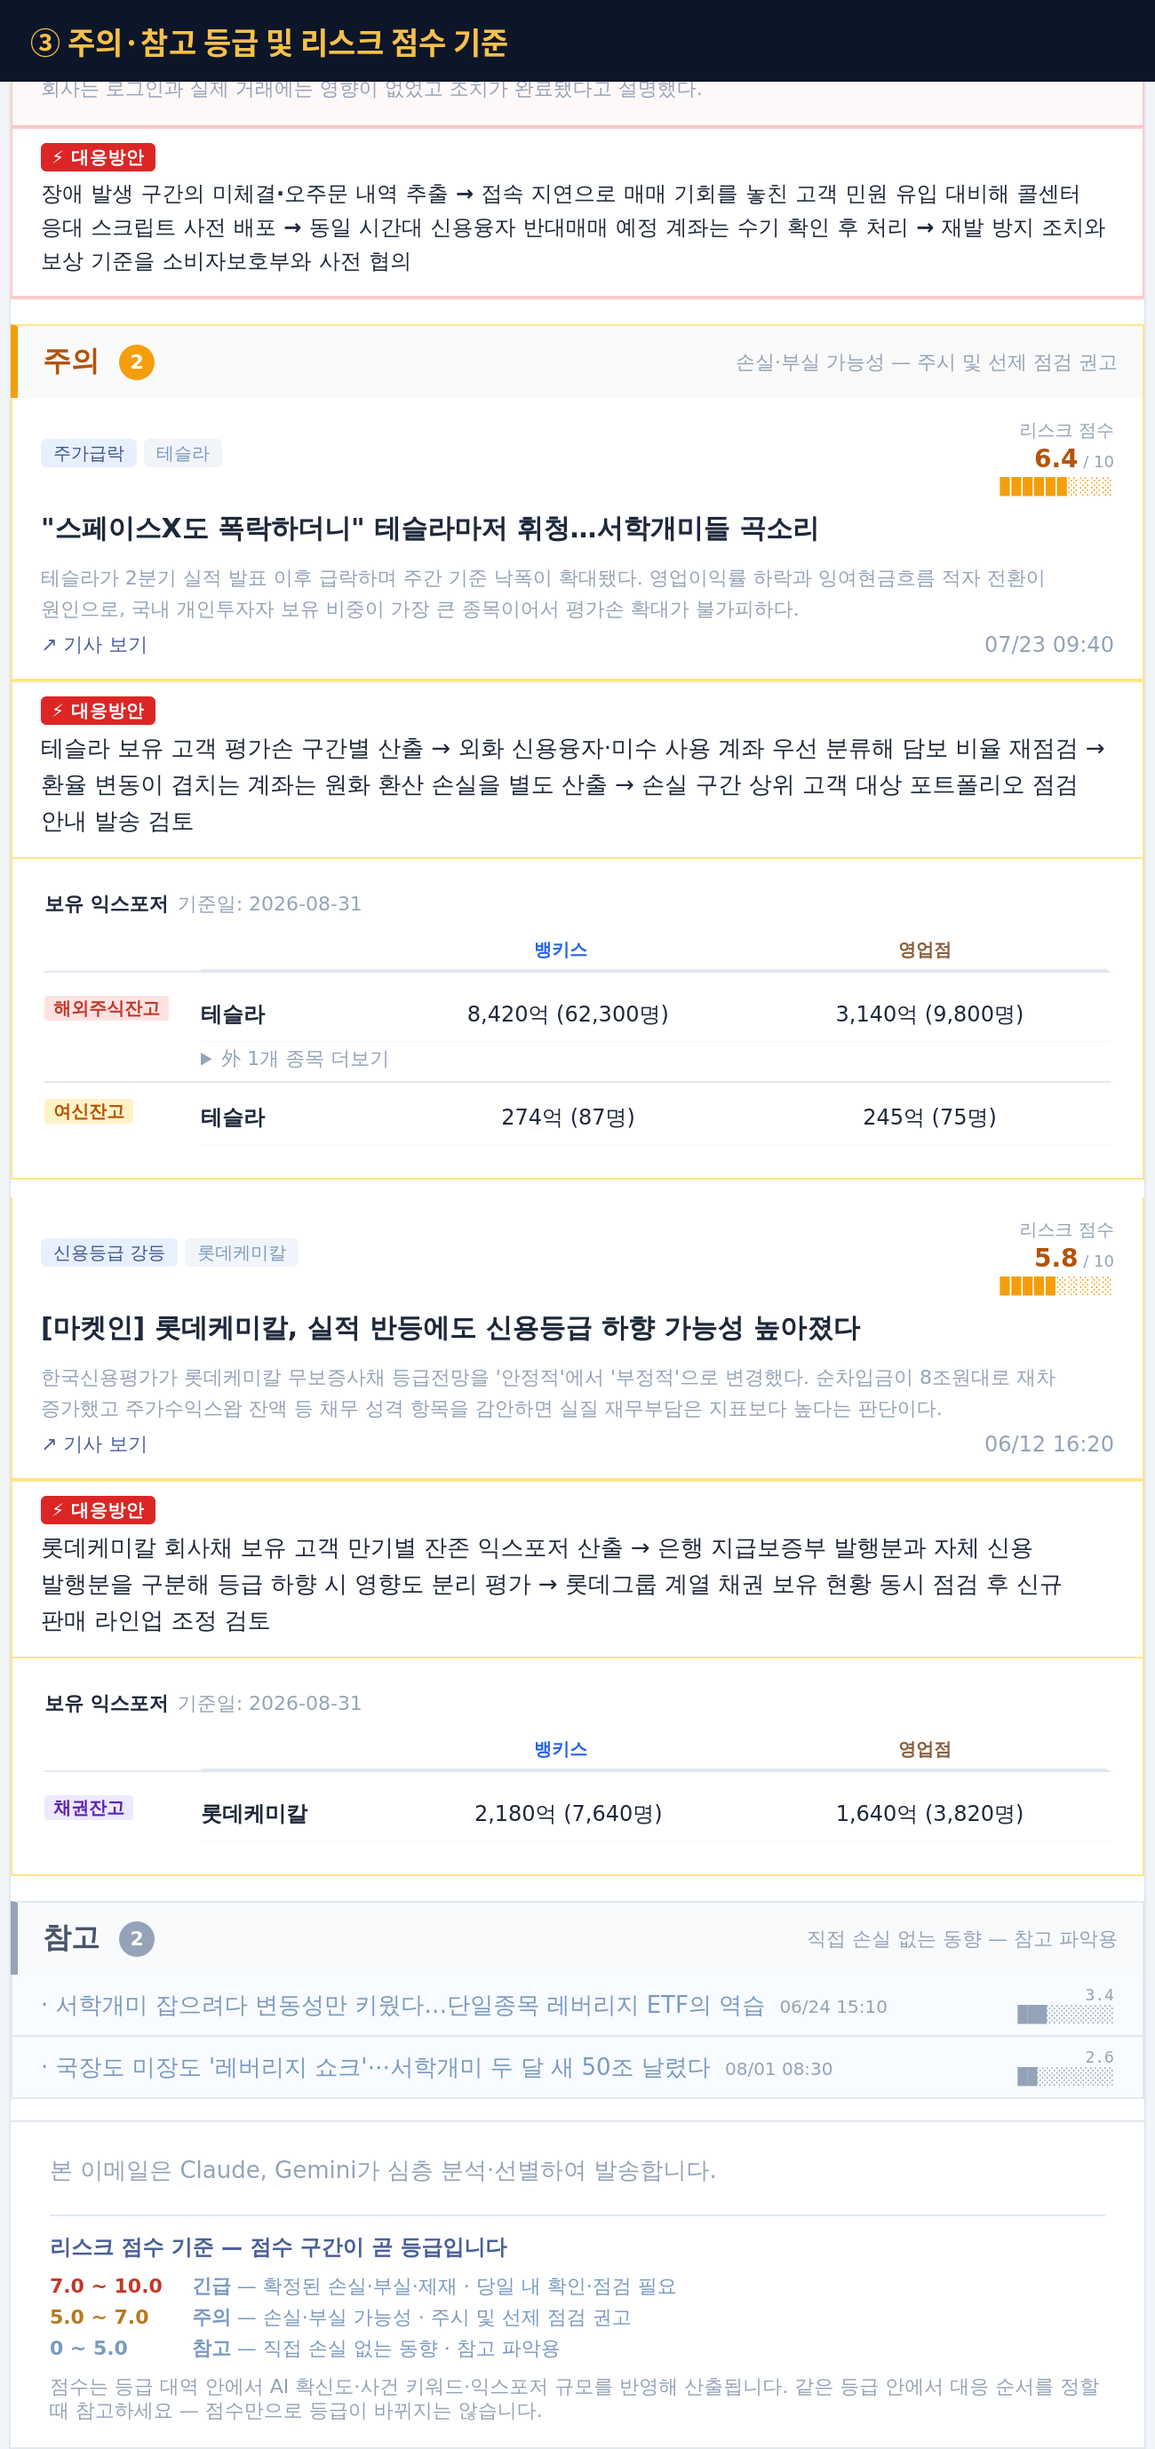
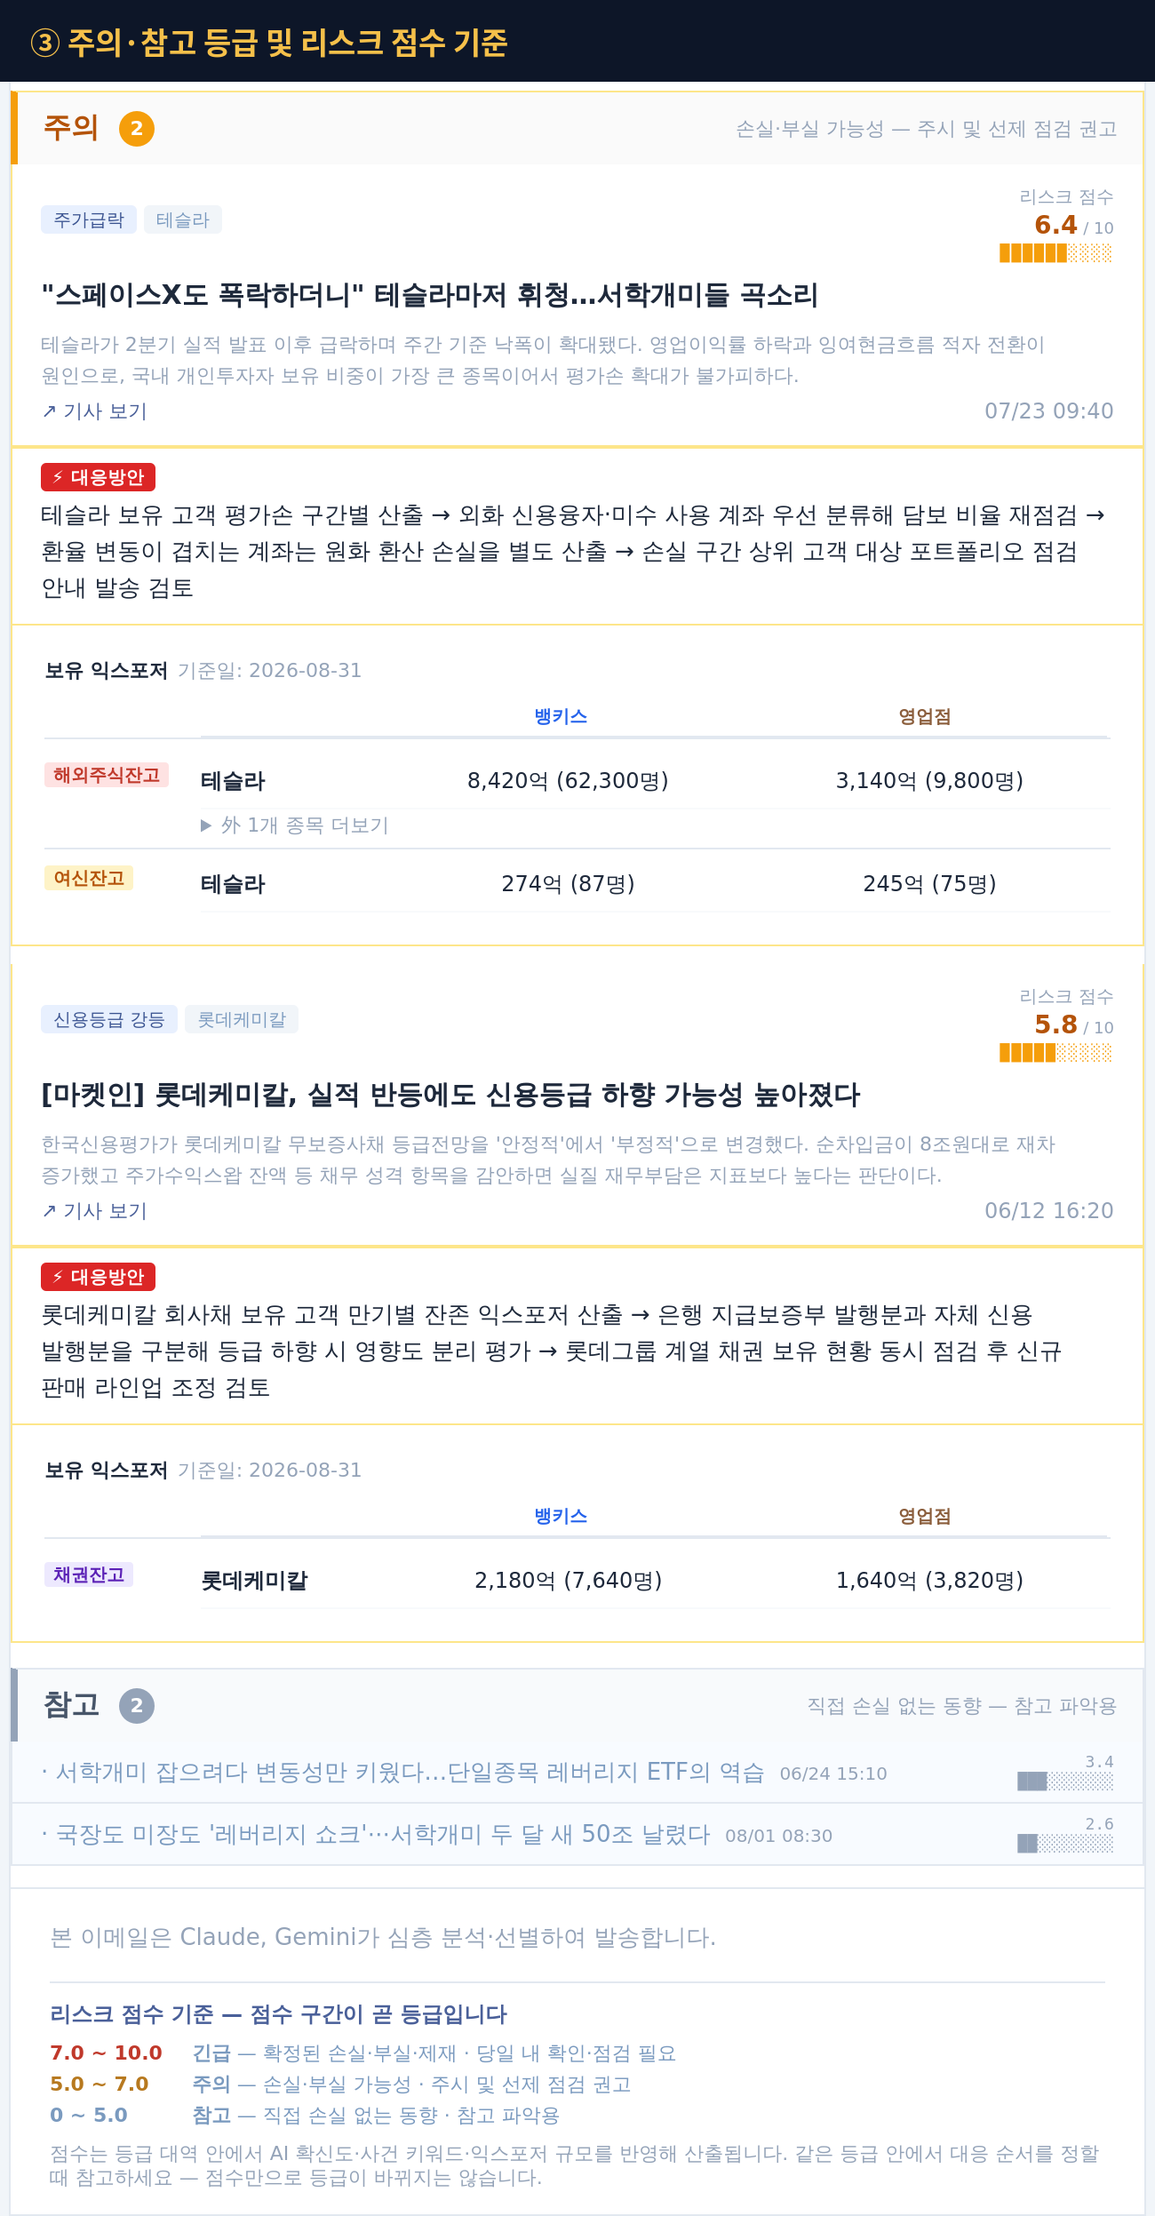
여신 잔고없음 표기·채권 더보기 접힘 원복

diff --git a/index.html b/index.html
@@ -235,7 +235,7 @@
           <tr><td bgcolor="#fff8f8" style="background:#fff8f8;border-top:1px solid #fecaca;padding:0;"><table width="100%" cellpadding="0" cellspacing="0" border="0"><tr><td class="action-td" bgcolor="#ffffff" style="padding:10px 16px;border-bottom:1px solid #fecaca;background:#ffffff;"><p style="margin:0 0 5px 0;font-size:11px;font-weight:bold;letter-spacing:0.3px;"><span style="background:#dc2626;color:#fff;padding:2px 6px;font-size:10px;margin-right:5px;border-radius:3px;">⚡ 대응방안</span></p><p style="margin:0;font-size:12px;color:#1e293b;line-height:1.6;font-weight:600;word-break:keep-all;">중앙그룹 계열 채권·CP·전단채 보유 고객 전수 추출 → 종목별 만기와 매입 시점 확인해 회생채권 신고 대상 분류 → 콘텐트리중앙은 매매거래 정지 상태이므로 주식 보유 계좌의 대용증권 편입분 즉시 재평가 → 계열 전반 신규 판매 중단 조치 후 리테일 채널 안내문 배포 → 회생채권 신고기한을 고객별로 개별 통지하고 결과를 컴플라이언스부·리스크관리부에 보고</p></td></tr><tr><td class="care-td" bgcolor="#f8fafc" style="padding:10px 16px;background:#f8fafc;border-top:1px solid #e2e8f0;"><p style="margin:0 0 5px 0;font-size:11px;font-weight:bold;letter-spacing:0.3px;"><span style="background:#2563eb;color:#fff;padding:2px 6px;font-size:10px;margin-right:5px;border-radius:3px;">✦ AI</span><span style="color:#334155;">고객케어 안내 추천 문구</span></p><p style="margin:0;font-size:12px;color:#334155;line-height:1.7;white-space:pre-line;word-break:keep-all;">[한국투자증권] 긴급 안내 보유하신 채권의 발행사가 기업회생절차 개시를 신청했습니다. 회생절차가 개시되면 변제 조건이 변경될 수 있으며 채권 신고기한이 별도로 정해집니다. 보유 수량과 만기를 즉시 확인하시기 바랍니다.</p></td></tr><tr><td style="padding:0;border-top:1px solid #e2e8f0;border-bottom:1px solid #fecaca;background:#ffffff;"><table width="100%" cellpadding="0" cellspacing="0" border="0" style="background:#ffffff;">
       <tr><td class="exp-card-td" style="padding:14px 18px;">
         <p style="margin:0 0 10px 0;"><span style="font-size:11px;font-weight:700;color:#1e293b;">보유 익스포저</span> <span style="font-weight:400;color:#94a3b8;font-size:11px;">기준일: 2026-08-31</span></p>
-        <table width="100%" cellpadding="0" cellspacing="0" border="0" style="margin-bottom:8px;"><tr><td style="width:80px;border-bottom:1px solid #e2e8f0;">&nbsp;</td><td style="padding-left:8px;border-bottom:1px solid #e2e8f0;"><table cellpadding="0" cellspacing="0" border="0" style="border-collapse:collapse;table-layout:fixed;"><tr><td class="exp-name-td" width="100" style="border-bottom:1px solid #e2e8f0;">&nbsp;</td><td class="exp-val-td" width="205" align="center" style="box-sizing:border-box;text-align:center;padding:2px 6px 5px;font-size:10px;font-weight:700;color:#2563eb;border-bottom:1px solid #e2e8f0;white-space:nowrap;">뱅키스</td><td class="exp-val-td" width="205" align="center" style="box-sizing:border-box;text-align:center;padding:2px 6px 5px;font-size:10px;font-weight:700;color:#8b5e3c;border-bottom:1px solid #e2e8f0;white-space:nowrap;">영업점</td></tr></table></td></tr></table><table width="100%" cellpadding="0" cellspacing="0" border="0" style="margin-bottom:4px;"><tr><td valign="top" style="padding-top:6px;width:80px;white-space:nowrap;"><span style="font-size:10px;background:#fee2e2;color:#c0392b;padding:1px 5px;border-radius:2px;font-weight:700;">주식잔고</span></td><td style="padding-left:8px;"><table cellpadding="0" cellspacing="0" border="0" style="border-collapse:collapse;table-layout:fixed;"><tr style="border-bottom:1px solid #f8fafc;"><td class="exp-name-td" width="100" style="font-size:12px;font-weight:700;color:#1e293b;padding:8px 6px 8px 0;white-space:nowrap;vertical-align:top;"><div style="max-width:100%;overflow:hidden;text-overflow:ellipsis;white-space:nowrap;">콘텐트리중앙</div></td><td class="exp-val-td" width="205" align="center" style="box-sizing:border-box;text-align:center;font-size:12px;color:#1e293b;padding:8px 6px;white-space:nowrap;vertical-align:top;">860억 (12,400명)</td><td class="exp-val-td" width="205" align="center" style="box-sizing:border-box;text-align:center;font-size:12px;color:#1e293b;padding:8px 6px;white-space:nowrap;vertical-align:top;">420억 (3,100명)</td></tr></table></td></tr></table><table width="100%" cellpadding="0" cellspacing="0" border="0" style="margin:4px 0;"><tr><td style="height:1px;background:#e2e8f0;font-size:0;line-height:0;">&nbsp;</td></tr></table><table width="100%" cellpadding="0" cellspacing="0" border="0" style="margin:4px 0;"><tr><td style="height:1px;background:#e2e8f0;font-size:0;line-height:0;">&nbsp;</td></tr></table><table width="100%" cellpadding="0" cellspacing="0" border="0" style="margin-bottom:4px;"><tr><td valign="top" style="padding-top:6px;width:80px;white-space:nowrap;"><span style="font-size:10px;background:#ede9fe;color:#5b21b6;padding:1px 5px;border-radius:2px;font-weight:700;">채권잔고</span></td><td style="padding-left:8px;"><table cellpadding="0" cellspacing="0" border="0" style="border-collapse:collapse;table-layout:fixed;"><tr style="border-bottom:1px solid #f8fafc;"><td class="exp-name-td" width="100" style="font-size:12px;font-weight:700;color:#1e293b;padding:8px 6px 8px 0;white-space:nowrap;vertical-align:top;"><div style="max-width:100%;overflow:hidden;text-overflow:ellipsis;white-space:nowrap;">중앙홀딩스</div></td><td class="exp-val-td" width="205" align="center" style="box-sizing:border-box;text-align:center;font-size:12px;color:#1e293b;padding:8px 6px;white-space:nowrap;vertical-align:top;">1,240억 (4,300명)</td><td class="exp-val-td" width="205" align="center" style="box-sizing:border-box;text-align:center;font-size:12px;color:#1e293b;padding:8px 6px;white-space:nowrap;vertical-align:top;">880억 (2,100명)</td></tr></table><details open style="margin-top:0;"><summary style="cursor:pointer;list-style:revert;padding:2px 0;font-size:11px;color:#94a3b8;">外 5개 종목</summary><table cellpadding="0" cellspacing="0" border="0" style="border-collapse:collapse;table-layout:fixed;"><tr style="border-bottom:1px solid #f8fafc;"><td class="exp-name-td" width="100" style="font-size:12px;font-weight:700;color:#1e293b;padding:8px 6px 8px 0;white-space:nowrap;vertical-align:top;"><div style="max-width:100%;overflow:hidden;text-overflow:ellipsis;white-space:nowrap;">제이티비씨</div></td><td class="exp-val-td" width="205" align="center" style="box-sizing:border-box;text-align:center;font-size:12px;color:#1e293b;padding:8px 6px;white-space:nowrap;vertical-align:top;">1,080억 (3,960명)</td><td class="exp-val-td" width="205" align="center" style="box-sizing:border-box;text-align:center;font-size:12px;color:#1e293b;padding:8px 6px;white-space:nowrap;vertical-align:top;">640억 (1,820명)</td></tr><tr style="border-bottom:1px solid #f8fafc;"><td class="exp-name-td" width="100" style="font-size:12px;font-weight:700;color:#1e293b;padding:8px 6px 8px 0;white-space:nowrap;vertical-align:top;"><div style="max-width:100%;overflow:hidden;text-overflow:ellipsis;white-space:nowrap;">중앙일보</div></td><td class="exp-val-td" width="205" align="center" style="box-sizing:border-box;text-align:center;font-size:12px;color:#1e293b;padding:8px 6px;white-space:nowrap;vertical-align:top;">760억 (2,840명)</td><td class="exp-val-td" width="205" align="center" style="box-sizing:border-box;text-align:center;font-size:12px;color:#1e293b;padding:8px 6px;white-space:nowrap;vertical-align:top;">510억 (1,460명)</td></tr><tr style="border-bottom:1px solid #f8fafc;"><td class="exp-name-td" width="100" style="font-size:12px;font-weight:700;color:#1e293b;padding:8px 6px 8px 0;white-space:nowrap;vertical-align:top;"><div style="max-width:100%;overflow:hidden;text-overflow:ellipsis;white-space:nowrap;">에스엘엘중앙</div></td><td class="exp-val-td" width="205" align="center" style="box-sizing:border-box;text-align:center;font-size:12px;color:#1e293b;padding:8px 6px;white-space:nowrap;vertical-align:top;">620억 (2,180명)</td><td class="exp-val-td" width="205" align="center" style="box-sizing:border-box;text-align:center;font-size:12px;color:#1e293b;padding:8px 6px;white-space:nowrap;vertical-align:top;">390억 (1,120명)</td></tr><tr style="border-bottom:1px solid #f8fafc;"><td class="exp-name-td" width="100" style="font-size:12px;font-weight:700;color:#1e293b;padding:8px 6px 8px 0;white-space:nowrap;vertical-align:top;"><div style="max-width:100%;overflow:hidden;text-overflow:ellipsis;white-space:nowrap;">메가박스중앙</div></td><td class="exp-val-td" width="205" align="center" style="box-sizing:border-box;text-align:center;font-size:12px;color:#1e293b;padding:8px 6px;white-space:nowrap;vertical-align:top;">540억 (1,980명)</td><td class="exp-val-td" width="205" align="center" style="box-sizing:border-box;text-align:center;font-size:12px;color:#1e293b;padding:8px 6px;white-space:nowrap;vertical-align:top;">380억 (1,140명)</td></tr><tr style="border-bottom:1px solid #f8fafc;"><td class="exp-name-td" width="100" style="font-size:12px;font-weight:700;color:#1e293b;padding:8px 6px 8px 0;white-space:nowrap;vertical-align:top;"><div style="max-width:100%;overflow:hidden;text-overflow:ellipsis;white-space:nowrap;">중앙피앤아이</div></td><td class="exp-val-td" width="205" align="center" style="box-sizing:border-box;text-align:center;font-size:12px;color:#1e293b;padding:8px 6px;white-space:nowrap;vertical-align:top;">310억 (1,240명)</td><td class="exp-val-td" width="205" align="center" style="box-sizing:border-box;text-align:center;font-size:12px;color:#1e293b;padding:8px 6px;white-space:nowrap;vertical-align:top;">180억 (640명)</td></tr></table></details></td></tr></table>
+        <table width="100%" cellpadding="0" cellspacing="0" border="0" style="margin-bottom:8px;"><tr><td style="width:80px;border-bottom:1px solid #e2e8f0;">&nbsp;</td><td style="padding-left:8px;border-bottom:1px solid #e2e8f0;"><table cellpadding="0" cellspacing="0" border="0" style="border-collapse:collapse;table-layout:fixed;"><tr><td class="exp-name-td" width="100" style="border-bottom:1px solid #e2e8f0;">&nbsp;</td><td class="exp-val-td" width="205" align="center" style="box-sizing:border-box;text-align:center;padding:2px 6px 5px;font-size:10px;font-weight:700;color:#2563eb;border-bottom:1px solid #e2e8f0;white-space:nowrap;">뱅키스</td><td class="exp-val-td" width="205" align="center" style="box-sizing:border-box;text-align:center;padding:2px 6px 5px;font-size:10px;font-weight:700;color:#8b5e3c;border-bottom:1px solid #e2e8f0;white-space:nowrap;">영업점</td></tr></table></td></tr></table><table width="100%" cellpadding="0" cellspacing="0" border="0" style="margin-bottom:4px;"><tr><td valign="top" style="padding-top:6px;width:80px;white-space:nowrap;"><span style="font-size:10px;background:#fee2e2;color:#c0392b;padding:1px 5px;border-radius:2px;font-weight:700;">주식잔고</span></td><td style="padding-left:8px;"><table cellpadding="0" cellspacing="0" border="0" style="border-collapse:collapse;table-layout:fixed;"><tr style="border-bottom:1px solid #f8fafc;"><td class="exp-name-td" width="100" style="font-size:12px;font-weight:700;color:#1e293b;padding:8px 6px 8px 0;white-space:nowrap;vertical-align:top;"><div style="max-width:100%;overflow:hidden;text-overflow:ellipsis;white-space:nowrap;">콘텐트리중앙</div></td><td class="exp-val-td" width="205" align="center" style="box-sizing:border-box;text-align:center;font-size:12px;color:#1e293b;padding:8px 6px;white-space:nowrap;vertical-align:top;">860억 (12,400명)</td><td class="exp-val-td" width="205" align="center" style="box-sizing:border-box;text-align:center;font-size:12px;color:#1e293b;padding:8px 6px;white-space:nowrap;vertical-align:top;">420억 (3,100명)</td></tr></table></td></tr></table><table width="100%" cellpadding="0" cellspacing="0" border="0" style="margin:4px 0;"><tr><td style="height:1px;background:#e2e8f0;font-size:0;line-height:0;">&nbsp;</td></tr></table><table width="100%" cellpadding="0" cellspacing="0" border="0" style="margin-bottom:4px;"><tr><td valign="top" style="padding-top:6px;width:80px;white-space:nowrap;"><span style="font-size:10px;background:#fef3c7;color:#b45309;padding:1px 5px;border-radius:2px;font-weight:700;">여신잔고</span></td><td style="padding-left:8px;"><div style="font-size:13px;color:#94a3b8;line-height:1.7;">잔고 없음</div></td></tr></table><table width="100%" cellpadding="0" cellspacing="0" border="0" style="margin:4px 0;"><tr><td style="height:1px;background:#e2e8f0;font-size:0;line-height:0;">&nbsp;</td></tr></table><table width="100%" cellpadding="0" cellspacing="0" border="0" style="margin-bottom:4px;"><tr><td valign="top" style="padding-top:6px;width:80px;white-space:nowrap;"><span style="font-size:10px;background:#ede9fe;color:#5b21b6;padding:1px 5px;border-radius:2px;font-weight:700;">채권잔고</span></td><td style="padding-left:8px;"><table cellpadding="0" cellspacing="0" border="0" style="border-collapse:collapse;table-layout:fixed;"><tr style="border-bottom:1px solid #f8fafc;"><td class="exp-name-td" width="100" style="font-size:12px;font-weight:700;color:#1e293b;padding:8px 6px 8px 0;white-space:nowrap;vertical-align:top;"><div style="max-width:100%;overflow:hidden;text-overflow:ellipsis;white-space:nowrap;">중앙홀딩스</div></td><td class="exp-val-td" width="205" align="center" style="box-sizing:border-box;text-align:center;font-size:12px;color:#1e293b;padding:8px 6px;white-space:nowrap;vertical-align:top;">1,240억 (4,300명)</td><td class="exp-val-td" width="205" align="center" style="box-sizing:border-box;text-align:center;font-size:12px;color:#1e293b;padding:8px 6px;white-space:nowrap;vertical-align:top;">880억 (2,100명)</td></tr></table><details style="margin-top:0;"><summary style="cursor:pointer;list-style:revert;padding:2px 0;font-size:11px;color:#94a3b8;">外 5개 종목 더보기</summary><table cellpadding="0" cellspacing="0" border="0" style="border-collapse:collapse;table-layout:fixed;"><tr style="border-bottom:1px solid #f8fafc;"><td class="exp-name-td" width="100" style="font-size:12px;font-weight:700;color:#1e293b;padding:8px 6px 8px 0;white-space:nowrap;vertical-align:top;"><div style="max-width:100%;overflow:hidden;text-overflow:ellipsis;white-space:nowrap;">제이티비씨</div></td><td class="exp-val-td" width="205" align="center" style="box-sizing:border-box;text-align:center;font-size:12px;color:#1e293b;padding:8px 6px;white-space:nowrap;vertical-align:top;">1,080억 (3,960명)</td><td class="exp-val-td" width="205" align="center" style="box-sizing:border-box;text-align:center;font-size:12px;color:#1e293b;padding:8px 6px;white-space:nowrap;vertical-align:top;">640억 (1,820명)</td></tr><tr style="border-bottom:1px solid #f8fafc;"><td class="exp-name-td" width="100" style="font-size:12px;font-weight:700;color:#1e293b;padding:8px 6px 8px 0;white-space:nowrap;vertical-align:top;"><div style="max-width:100%;overflow:hidden;text-overflow:ellipsis;white-space:nowrap;">중앙일보</div></td><td class="exp-val-td" width="205" align="center" style="box-sizing:border-box;text-align:center;font-size:12px;color:#1e293b;padding:8px 6px;white-space:nowrap;vertical-align:top;">760억 (2,840명)</td><td class="exp-val-td" width="205" align="center" style="box-sizing:border-box;text-align:center;font-size:12px;color:#1e293b;padding:8px 6px;white-space:nowrap;vertical-align:top;">510억 (1,460명)</td></tr><tr style="border-bottom:1px solid #f8fafc;"><td class="exp-name-td" width="100" style="font-size:12px;font-weight:700;color:#1e293b;padding:8px 6px 8px 0;white-space:nowrap;vertical-align:top;"><div style="max-width:100%;overflow:hidden;text-overflow:ellipsis;white-space:nowrap;">에스엘엘중앙</div></td><td class="exp-val-td" width="205" align="center" style="box-sizing:border-box;text-align:center;font-size:12px;color:#1e293b;padding:8px 6px;white-space:nowrap;vertical-align:top;">620억 (2,180명)</td><td class="exp-val-td" width="205" align="center" style="box-sizing:border-box;text-align:center;font-size:12px;color:#1e293b;padding:8px 6px;white-space:nowrap;vertical-align:top;">390억 (1,120명)</td></tr><tr style="border-bottom:1px solid #f8fafc;"><td class="exp-name-td" width="100" style="font-size:12px;font-weight:700;color:#1e293b;padding:8px 6px 8px 0;white-space:nowrap;vertical-align:top;"><div style="max-width:100%;overflow:hidden;text-overflow:ellipsis;white-space:nowrap;">메가박스중앙</div></td><td class="exp-val-td" width="205" align="center" style="box-sizing:border-box;text-align:center;font-size:12px;color:#1e293b;padding:8px 6px;white-space:nowrap;vertical-align:top;">540억 (1,980명)</td><td class="exp-val-td" width="205" align="center" style="box-sizing:border-box;text-align:center;font-size:12px;color:#1e293b;padding:8px 6px;white-space:nowrap;vertical-align:top;">380억 (1,140명)</td></tr><tr style="border-bottom:1px solid #f8fafc;"><td class="exp-name-td" width="100" style="font-size:12px;font-weight:700;color:#1e293b;padding:8px 6px 8px 0;white-space:nowrap;vertical-align:top;"><div style="max-width:100%;overflow:hidden;text-overflow:ellipsis;white-space:nowrap;">중앙피앤아이</div></td><td class="exp-val-td" width="205" align="center" style="box-sizing:border-box;text-align:center;font-size:12px;color:#1e293b;padding:8px 6px;white-space:nowrap;vertical-align:top;">310억 (1,240명)</td><td class="exp-val-td" width="205" align="center" style="box-sizing:border-box;text-align:center;font-size:12px;color:#1e293b;padding:8px 6px;white-space:nowrap;vertical-align:top;">180억 (640명)</td></tr></table></details></td></tr></table>
       </td></tr>
     </table></td></tr></table></td></tr>
         </table>
